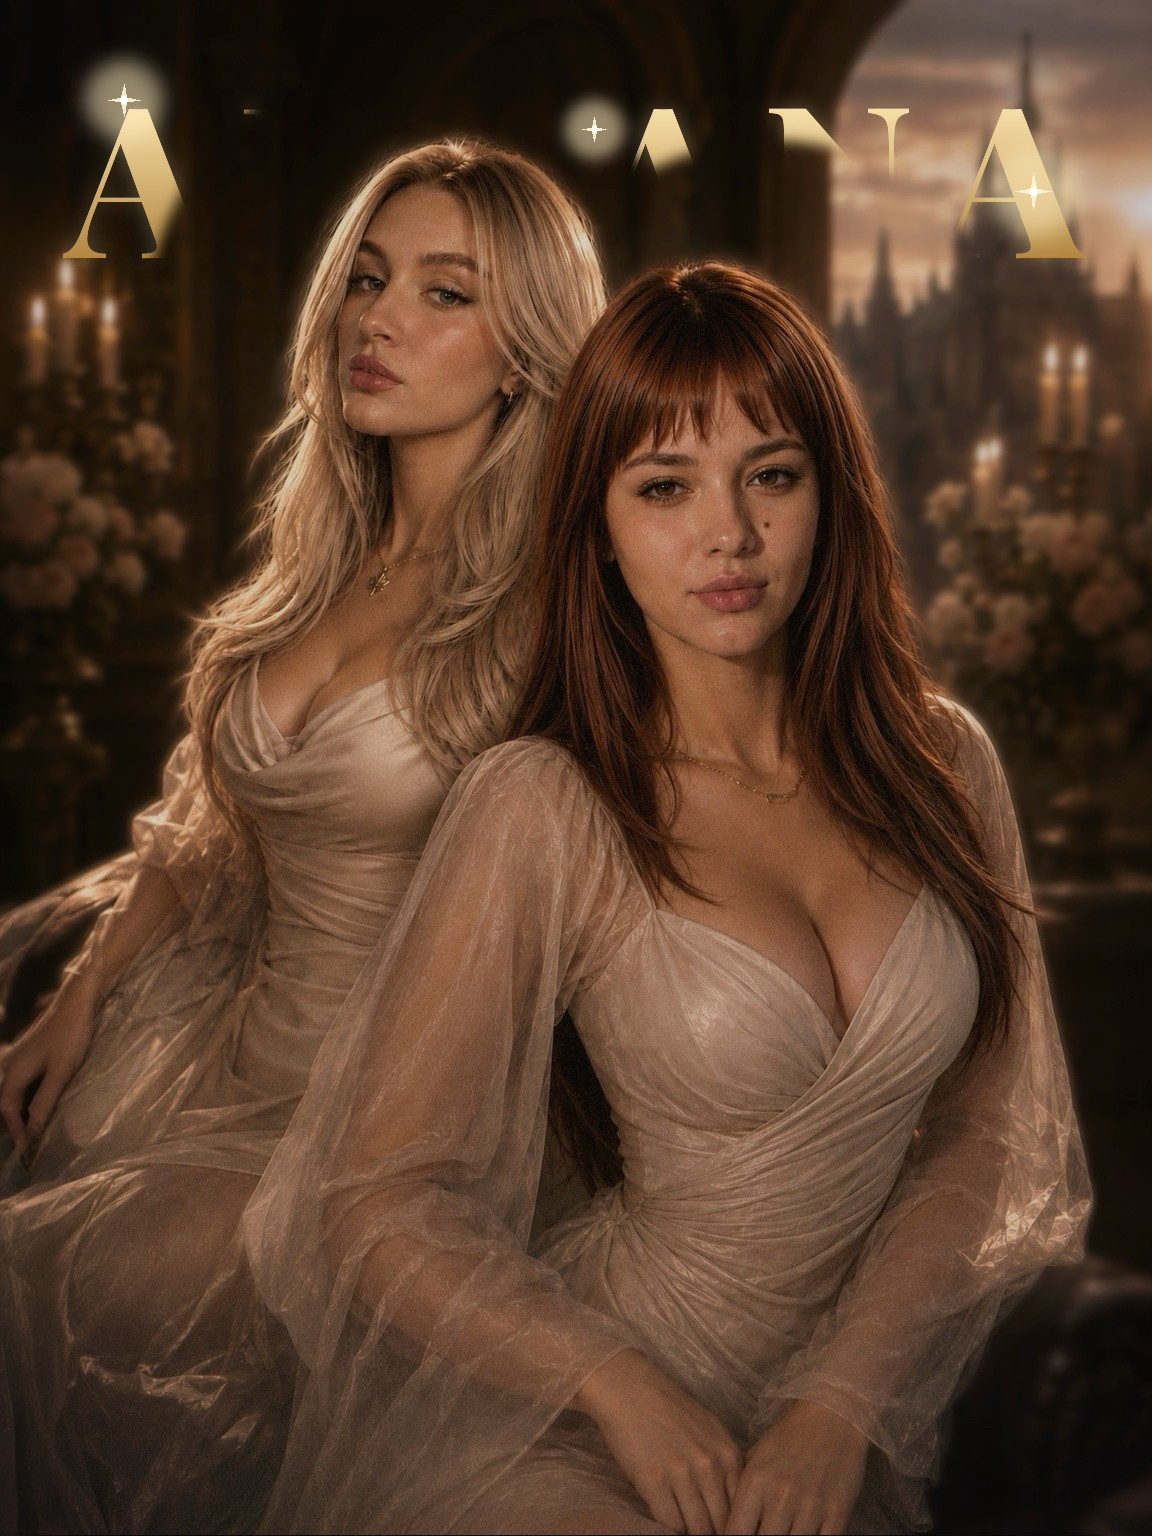
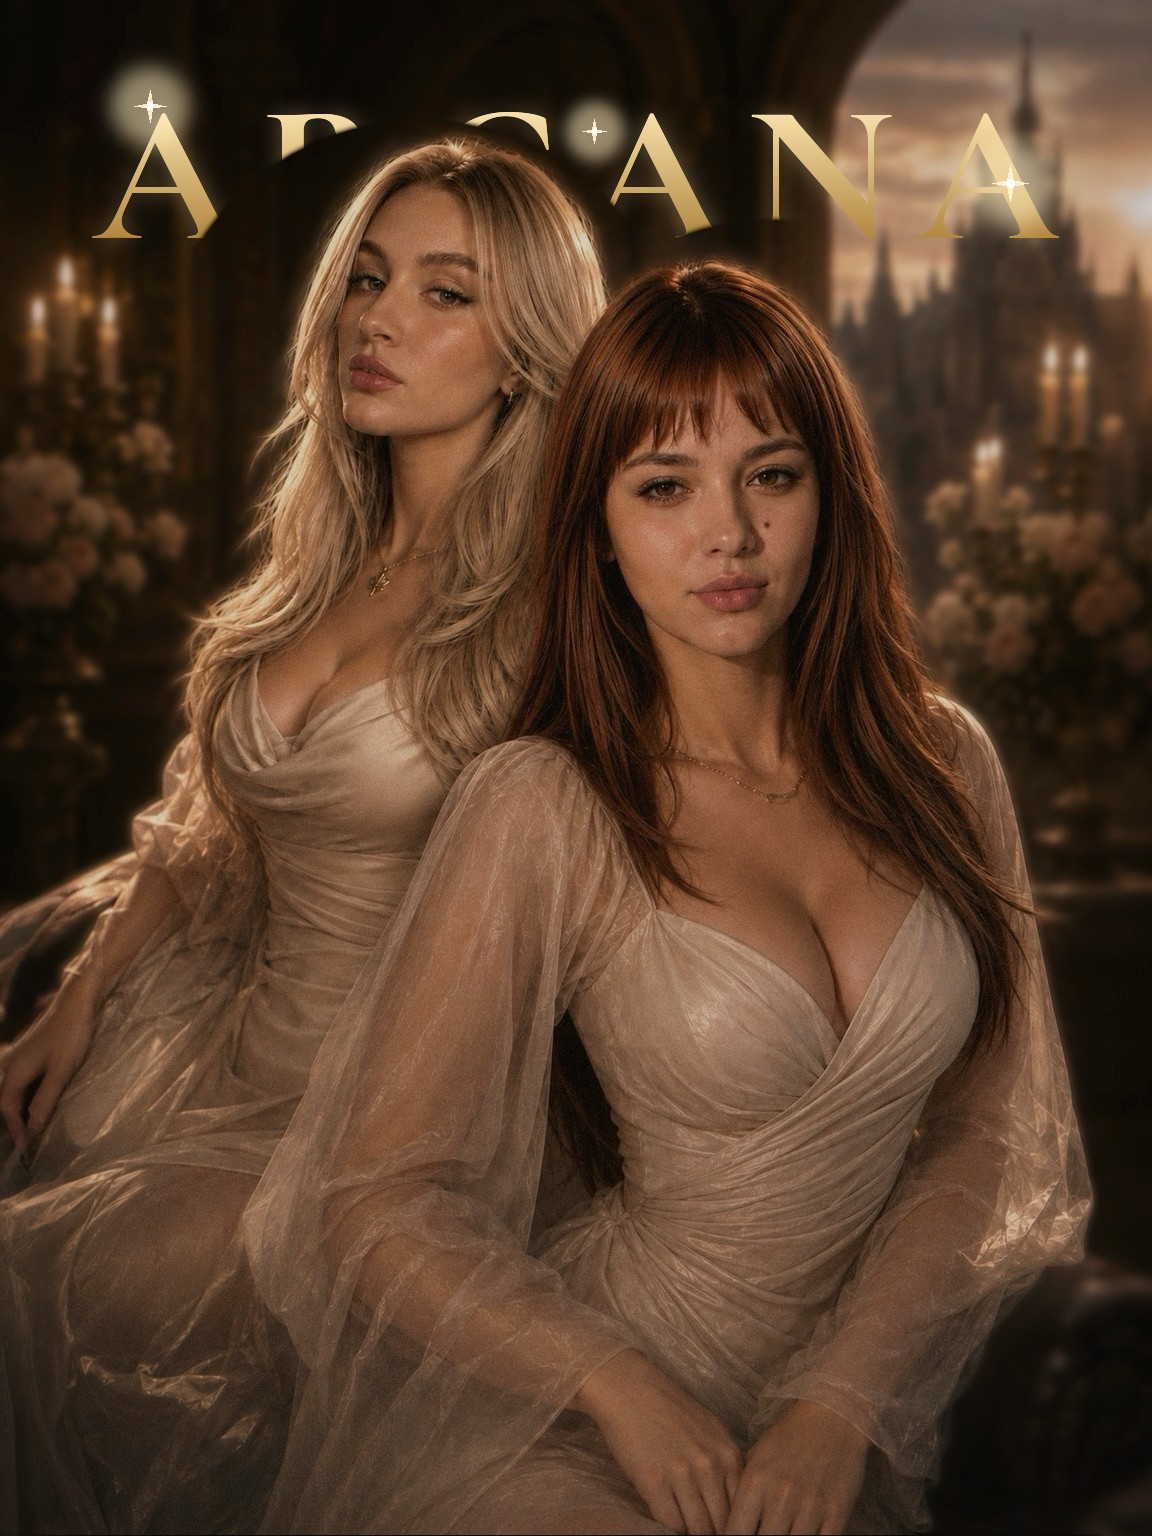
apps/mobile: real /critique pass, fix login title/palette/font
Ran impeccable's critique properly this time (context via
PRODUCT.md + CLI detector + manual heuristic review) instead of
skimming a skill's data file. Findings addressed:

- Login title was cropped at the frame edges and nearly illegible
  after a font swap - rebuilt with margins that guarantee no clipping
  and a tighter occlusion mask so thin strokes survive the "behind
  the heads" weave instead of being washed out.
- Font: Cormorant Garamond ("literary, refined, bookish" per
  ui-ux-pro-max) replaces Playfair Display for the wordmark.
- Palette: replaced the purple-leaning neutrals with a warm
  near-black + gold ("premium dark + gold" pairing from ui-ux-pro-max's
  color data) across theme tokens, app.json splash/icon background,
  and the 3D book palette - was the same color on every screen, just
  an unattractive one.
- Gold/serif treatment demoted from ordinary section labels ("Истории",
  "Кошелёк" card title) back to plain text - GoldTitle component
  removed as unused now that the wordmark lives only in the baked photo.
- Catalog: added a designed filler state for a sparse list (<3 stories)
  instead of a dead empty area under one card.
- Login: password visibility toggle, inline email format validation,
  and a forgot-password entry point (backend has no reset flow yet,
  so it's an honest "contact support" message, not a fake working flow).

diff --git a/apps/mobile/app/(app)/(tabs)/index.tsx b/apps/mobile/app/(app)/(tabs)/index.tsx
@@ -2,12 +2,15 @@ import { useCallback, useEffect, useState } from "react";
 import { ActivityIndicator, FlatList, RefreshControl, StyleSheet, Text, View } from "react-native";
 import { router } from "expo-router";
 
-import { GoldTitle } from "../../../components/GoldTitle";
 import { Scene3DBackground } from "../../../components/Scene3DBackground";
 import { StoryCard } from "../../../components/StoryCard";
 import { apiRequest, ApiError } from "../../../lib/api";
-import { colors } from "../../../lib/theme";
+import { colors, radius } from "../../../lib/theme";
 import type { StorySummary } from "../../../lib/types";
+
+// Below this count the list reads as broken (a lot of empty space under one
+// card) rather than intentionally short, so a filler card explains it instead.
+const SPARSE_THRESHOLD = 3;
 
 export default function CatalogScreen() {
   const [stories, setStories] = useState<StorySummary[]>([]);
@@ -46,7 +49,7 @@ export default function CatalogScreen() {
   return (
     <View style={styles.screen}>
       <Scene3DBackground coverUrls={stories.map((s) => s.coverImageUrl).filter((u): u is string => !!u)} />
-      <GoldTitle style={styles.header}>Истории</GoldTitle>
+      <Text style={styles.header}>Истории</Text>
       {error ? <Text style={styles.error}>{error}</Text> : null}
       <FlatList
         data={stories}
@@ -59,6 +62,14 @@ export default function CatalogScreen() {
         ListEmptyComponent={
           !error ? <Text style={styles.empty}>Пока нет опубликованных историй</Text> : null
         }
+        ListFooterComponent={
+          stories.length > 0 && stories.length < SPARSE_THRESHOLD ? (
+            <View style={styles.comingSoon}>
+              <Text style={styles.comingSoonTitle}>Скоро здесь появятся новые истории</Text>
+              <Text style={styles.comingSoonHint}>Заглядывайте почаще — библиотека пополняется</Text>
+            </View>
+          ) : null
+        }
       />
     </View>
   );
@@ -67,8 +78,20 @@ export default function CatalogScreen() {
 const styles = StyleSheet.create({
   screen: { flex: 1, backgroundColor: colors.background, paddingTop: 60 },
   center: { flex: 1, alignItems: "center", justifyContent: "center", backgroundColor: colors.background },
-  header: { fontSize: 28, paddingHorizontal: 20, marginBottom: 16, textAlign: "left" },
+  header: { color: colors.text, fontSize: 24, fontWeight: "700", paddingHorizontal: 20, marginBottom: 16 },
   list: { paddingHorizontal: 20, paddingBottom: 40, gap: 14 },
   error: { color: colors.danger, paddingHorizontal: 20, marginBottom: 10 },
   empty: { color: colors.textMuted, textAlign: "center", marginTop: 40 },
+  comingSoon: {
+    borderWidth: 1,
+    borderStyle: "dashed",
+    borderColor: colors.border,
+    borderRadius: radius.md,
+    padding: 20,
+    marginTop: 4,
+    alignItems: "center",
+    gap: 4,
+  },
+  comingSoonTitle: { color: colors.textMuted, fontSize: 14, fontWeight: "600", textAlign: "center" },
+  comingSoonHint: { color: colors.textMuted, fontSize: 12, textAlign: "center", opacity: 0.8 },
 });

diff --git a/apps/mobile/app/(auth)/login.tsx b/apps/mobile/app/(auth)/login.tsx
@@ -1,5 +1,6 @@
 import { useState } from "react";
 import {
+  Alert,
   ImageBackground,
   KeyboardAvoidingView,
   Platform,
@@ -22,6 +23,7 @@ import { colors } from "../../lib/theme";
 // resizeMode="cover" crops from the sides rather than the top, and never
 // clips the title.
 const HERO_ASPECT = 1152 / 1536;
+const EMAIL_PATTERN = /^[^\s@]+@[^\s@]+\.[^\s@]+$/;
 
 export default function LoginScreen() {
   const login = useAuthStore((s) => s.login);
@@ -30,9 +32,16 @@ export default function LoginScreen() {
 
   const [email, setEmail] = useState("");
   const [password, setPassword] = useState("");
+  const [emailTouched, setEmailTouched] = useState(false);
   const [loading, setLoading] = useState(false);
 
+  const emailError = emailTouched && email && !EMAIL_PATTERN.test(email.trim())
+    ? "Похоже, email введён неверно"
+    : undefined;
+
   const submit = async () => {
+    setEmailTouched(true);
+    if (!EMAIL_PATTERN.test(email.trim())) return;
     clearError();
     setLoading(true);
     try {
@@ -43,6 +52,13 @@ export default function LoginScreen() {
     } finally {
       setLoading(false);
     }
+  };
+
+  const onForgotPassword = () => {
+    Alert.alert(
+      "Восстановление пароля",
+      "Самостоятельное восстановление пока не готово. Напишите в поддержку — support@arcana.app.",
+    );
   };
 
   return (
@@ -63,16 +79,23 @@ export default function LoginScreen() {
               label="Email"
               value={email}
               onChangeText={setEmail}
+              onBlur={() => setEmailTouched(true)}
+              error={emailError}
               keyboardType="email-address"
               textContentType="emailAddress"
             />
-            <TextField
-              label="Пароль"
-              value={password}
-              onChangeText={setPassword}
-              secureTextEntry
-              textContentType="password"
-            />
+            <View>
+              <TextField
+                label="Пароль"
+                value={password}
+                onChangeText={setPassword}
+                secureTextEntry
+                textContentType="password"
+              />
+              <Text onPress={onForgotPassword} style={styles.forgotLink}>
+                Забыли пароль?
+              </Text>
+            </View>
             {error ? <Text style={styles.error}>{error}</Text> : null}
             <Button title="Войти" onPress={submit} loading={loading} disabled={!email || !password} />
           </View>
@@ -112,6 +135,13 @@ const styles = StyleSheet.create({
   },
   form: {
     gap: 16,
+  },
+  forgotLink: {
+    color: colors.textMuted,
+    fontSize: 13,
+    textAlign: "right",
+    marginTop: 6,
+    textDecorationLine: "underline",
   },
   error: {
     color: colors.danger,

diff --git a/apps/mobile/components/TextField.tsx b/apps/mobile/components/TextField.tsx
@@ -1,22 +1,41 @@
-import { StyleSheet, Text, TextInput, View, type TextInputProps } from "react-native";
+import { useState } from "react";
+import { Pressable, StyleSheet, Text, TextInput, View, type TextInputProps } from "react-native";
+import { Ionicons } from "@expo/vector-icons";
 
 import { colors, radius } from "../lib/theme";
 
 type Props = TextInputProps & {
   label: string;
+  error?: string;
 };
 
-export function TextField({ label, style, ...rest }: Props) {
+export function TextField({ label, error, style, secureTextEntry, ...rest }: Props) {
+  const [reveal, setReveal] = useState(false);
+
   return (
     <View style={styles.wrapper}>
       <Text style={styles.label}>{label}</Text>
-      <TextInput
-        placeholderTextColor={colors.textMuted}
-        style={[styles.input, style]}
-        autoCapitalize="none"
-        autoCorrect={false}
-        {...rest}
-      />
+      <View style={styles.inputRow}>
+        <TextInput
+          placeholderTextColor={colors.textMuted}
+          style={[styles.input, secureTextEntry && styles.inputWithIcon, style]}
+          autoCapitalize="none"
+          autoCorrect={false}
+          secureTextEntry={secureTextEntry && !reveal}
+          {...rest}
+        />
+        {secureTextEntry ? (
+          <Pressable
+            onPress={() => setReveal((v) => !v)}
+            style={styles.icon}
+            hitSlop={10}
+            accessibilityLabel={reveal ? "Скрыть пароль" : "Показать пароль"}
+          >
+            <Ionicons name={reveal ? "eye-off-outline" : "eye-outline"} size={20} color={colors.textMuted} />
+          </Pressable>
+        ) : null}
+      </View>
+      {error ? <Text style={styles.error}>{error}</Text> : null}
     </View>
   );
 }
@@ -29,6 +48,10 @@ const styles = StyleSheet.create({
     color: colors.textMuted,
     fontSize: 13,
   },
+  inputRow: {
+    position: "relative",
+    justifyContent: "center",
+  },
   input: {
     backgroundColor: colors.surfaceRaised,
     borderRadius: radius.sm,
@@ -38,5 +61,16 @@ const styles = StyleSheet.create({
     paddingVertical: 12,
     color: colors.text,
     fontSize: 16,
+  },
+  inputWithIcon: {
+    paddingRight: 44,
+  },
+  icon: {
+    position: "absolute",
+    right: 12,
+  },
+  error: {
+    color: colors.danger,
+    fontSize: 12,
   },
 });

diff --git a/apps/mobile/lib/theme.ts b/apps/mobile/lib/theme.ts
@@ -1,12 +1,15 @@
 /** A single dark, romantic-drama palette for the whole app (no light mode yet - this genre
- * reads best on a dark "midnight ballroom" background regardless of system theme). */
+ * reads best on a dark "midnight ballroom" background regardless of system theme).
+ * Warm neutral near-black (not purple-tinted) + gold accent, matching the
+ * "Premium dark + gold accent" pairing ui-ux-pro-max's color data recommends
+ * for this brief - the previous palette leaned purple/eggplant. */
 export const colors = {
-  background: "#14101c",
-  surface: "#1f1a2b",
-  surfaceRaised: "#2a2338",
-  border: "#3a3049",
+  background: "#1a1613",
+  surface: "#241f1a",
+  surfaceRaised: "#2f2820",
+  border: "#4a3f30",
   text: "#f3ece0",
-  textMuted: "#a89bb8",
+  textMuted: "#b8a99a",
   accent: "#d4af6a",
   accentMuted: "#8a7550",
   danger: "#e08585",
@@ -14,16 +17,8 @@ export const colors = {
   hard: "#d4af6a",
 };
 
-/** The three stops used for the gold gradient title/wordmark treatment (GoldTitle). */
-export const goldGradient = ["#f6dfa0", "#d4af6a", "#9c7a3a"] as const;
-
 export const radius = {
   sm: 8,
   md: 14,
   lg: 22,
-};
-
-export const fonts = {
-  display: "PlayfairDisplay_600SemiBold",
-  displayBold: "PlayfairDisplay_800ExtraBold",
 };

diff --git a/apps/mobile/app/_layout.tsx b/apps/mobile/app/_layout.tsx
@@ -3,11 +3,6 @@ import { ActivityIndicator, View } from "react-native";
 import { Stack } from "expo-router";
 import { SafeAreaProvider } from "react-native-safe-area-context";
 import { StatusBar } from "expo-status-bar";
-import {
-  useFonts,
-  PlayfairDisplay_600SemiBold,
-  PlayfairDisplay_800ExtraBold,
-} from "@expo-google-fonts/playfair-display";
 
 import { useAuthStore } from "../lib/auth-store";
 import { colors } from "../lib/theme";
@@ -15,7 +10,6 @@ import { colors } from "../lib/theme";
 export default function RootLayout() {
   const status = useAuthStore((s) => s.status);
   const hydrate = useAuthStore((s) => s.hydrate);
-  const [fontsLoaded] = useFonts({ PlayfairDisplay_600SemiBold, PlayfairDisplay_800ExtraBold });
 
   useEffect(() => {
     hydrate();
@@ -24,7 +18,7 @@ export default function RootLayout() {
   return (
     <SafeAreaProvider>
       <StatusBar style="light" />
-      {status === "loading" || !fontsLoaded ? (
+      {status === "loading" ? (
         <View style={{ flex: 1, alignItems: "center", justifyContent: "center", backgroundColor: colors.background }}>
           <ActivityIndicator color={colors.accent} size="large" />
         </View>

diff --git a/apps/mobile/app/(app)/(tabs)/profile.tsx b/apps/mobile/app/(app)/(tabs)/profile.tsx
@@ -3,7 +3,6 @@ import { Alert, ScrollView, StyleSheet, Text, View } from "react-native";
 import { router } from "expo-router";
 
 import { Button } from "../../../components/Button";
-import { GoldTitle } from "../../../components/GoldTitle";
 import { Scene3DBackground } from "../../../components/Scene3DBackground";
 import { useAuthStore } from "../../../lib/auth-store";
 import { colors, radius } from "../../../lib/theme";
@@ -57,7 +56,7 @@ export default function ProfileScreen() {
         </View>
 
         <View style={styles.card}>
-          <GoldTitle style={styles.cardTitle}>Кошелёк</GoldTitle>
+          <Text style={styles.cardTitle}>Кошелёк</Text>
           {loading && !wallet ? (
             <Text style={styles.muted}>Загрузка…</Text>
           ) : wallet ? (
@@ -129,7 +128,7 @@ const styles = StyleSheet.create({
     padding: 20,
     gap: 16,
   },
-  cardTitle: { fontSize: 20, textAlign: "left" },
+  cardTitle: { color: colors.text, fontSize: 18, fontWeight: "700" },
   muted: { color: colors.textMuted },
   walletRow: { flexDirection: "row", justifyContent: "space-between" },
   stat: { alignItems: "center", gap: 4 },

diff --git a/apps/mobile/components/Scene3DBackground.tsx b/apps/mobile/components/Scene3DBackground.tsx
@@ -146,7 +146,7 @@ function FlyingBook({ seed, opacity }: { seed: BookSeed; opacity: number }) {
 function Scene({ coverUrls, bookCount, starCount }: Required<Omit<Props, "coverUrls">> & { coverUrls?: string[] }) {
   const opacity = 0.6;
   const seeds = useMemo<BookSeed[]>(() => {
-    const palette = ["#2a2338", "#3a2a4a", "#4a2f3a", "#241f36"];
+    const palette = ["#241f1a", "#3a2a20", "#4a3225", "#2f2820"];
     return Array.from({ length: bookCount }, (_, i) => ({
       radius: 1.6 + Math.random() * 1.6,
       height: (Math.random() - 0.5) * 2.2,

diff --git a/apps/mobile/PRODUCT.md b/apps/mobile/PRODUCT.md
@@ -1,0 +1,47 @@
+# Product
+
+<!-- impeccable:product-schema 1 -->
+
+## Platform
+
+adaptive
+
+Targets iOS and Android equally (confirmed) via one React Native/Expo codebase with a single shared design language - not a per-OS adapted visual system in the usual sense of "adaptive"; recorded this way only because both native platforms matter equally and both native guides should be consulted.
+
+## Users
+
+Readers of interactive romance/fantasy visual novels (the "Клуб Романтики" genre) - players who read branching stories, make narrative choices (some gated by in-app currency/energy), and return regularly for new chapters and a daily reward. Inferred from README/product framing; not separately confirmed with the user.
+
+## Product Purpose
+
+An interactive visual-novel reader positioned as a direct competitor to "Клуб Романтики". Content (stories, chapters, dialogue, choices, branching) lives in a database and is published through a (planned, not yet built) admin panel - new content ships without an app release.
+
+## Positioning
+
+Custom in-house stories/characters/art (not licensed IP), with content authored and republished without shipping a new app build - the mechanism a template visual-novel app copying only the UI could not replicate.
+
+## Operating Context
+
+Players read on a phone, often in short sessions; the reading engine auto-advances through condition/effect story nodes and stops at dialogue or a choice. Currency/energy economy (soft/hard currency, energy that gates chapter unlocks) and a daily-login reward are core recurring-engagement mechanics.
+
+## Capabilities and Constraints
+
+- React Native (Expo, SDK 54) app, one design system shared by iOS and Android.
+- Backend: FastAPI/PostgreSQL (`apps/api`), consumed over HTTP; catalog/auth/wallet/reading-engine endpoints exist today, admin/content-authoring endpoints exist but no admin UI yet.
+- Content rating: 16+ (confirmed) - imagery may be romantic/suggestive but must stay within a 16+ app-store rating, not explicit/nude. This bounds hero art, character art, and any future story illustrations.
+- No native per-OS visual adaptation is planned; component/theme work should stay a single shared implementation.
+
+## Evidence on Hand
+
+One seeded demo story ("Маска и Слово") with placeholder/AI-generated art. No real production story art, no user testimonials or usage data exist yet - future design work must not invent or imply either.
+
+## Product Principles
+
+1. The romantic-fantasy mood (dark gothic-amber "midnight ballroom" in-app, lighter mystic-pastel at first entry) is the brand; visual choices should reinforce it, not default to generic app-UI patterns.
+2. Content changes (new stories/chapters) must never require an app release - design for a system that can absorb new art/copy from an admin panel later.
+3. Recurring engagement (daily reward, energy economy) is core to the product; these mechanics should read clearly, not get buried under decoration.
+4. Stay within a 16+ content rating: romantic and suggestive is in bounds, explicit is not.
+
+## Accessibility & Inclusion
+
+No project-specific accessibility requirement has been established beyond platform defaults; not yet audited for contrast/dynamic type/screen-reader support.
